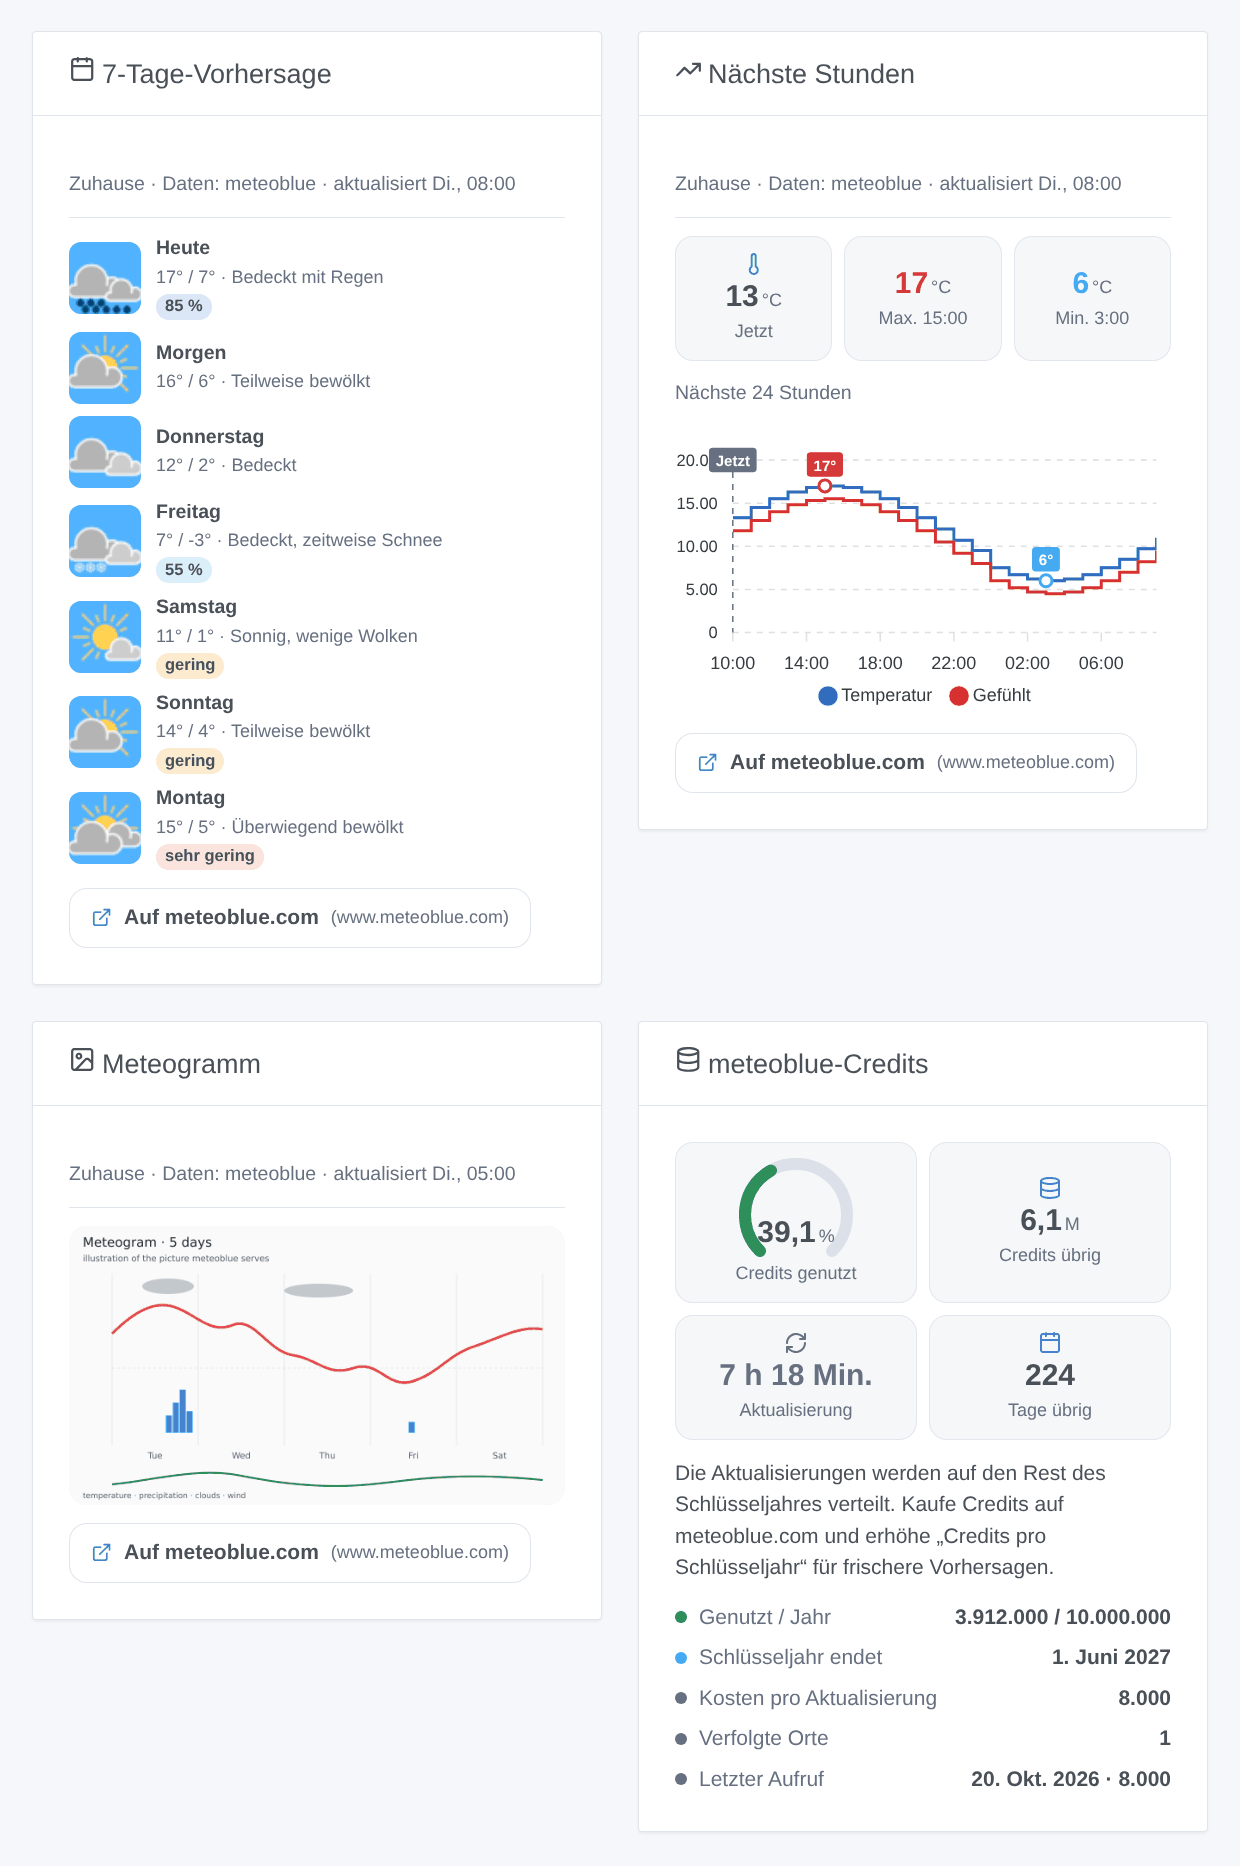
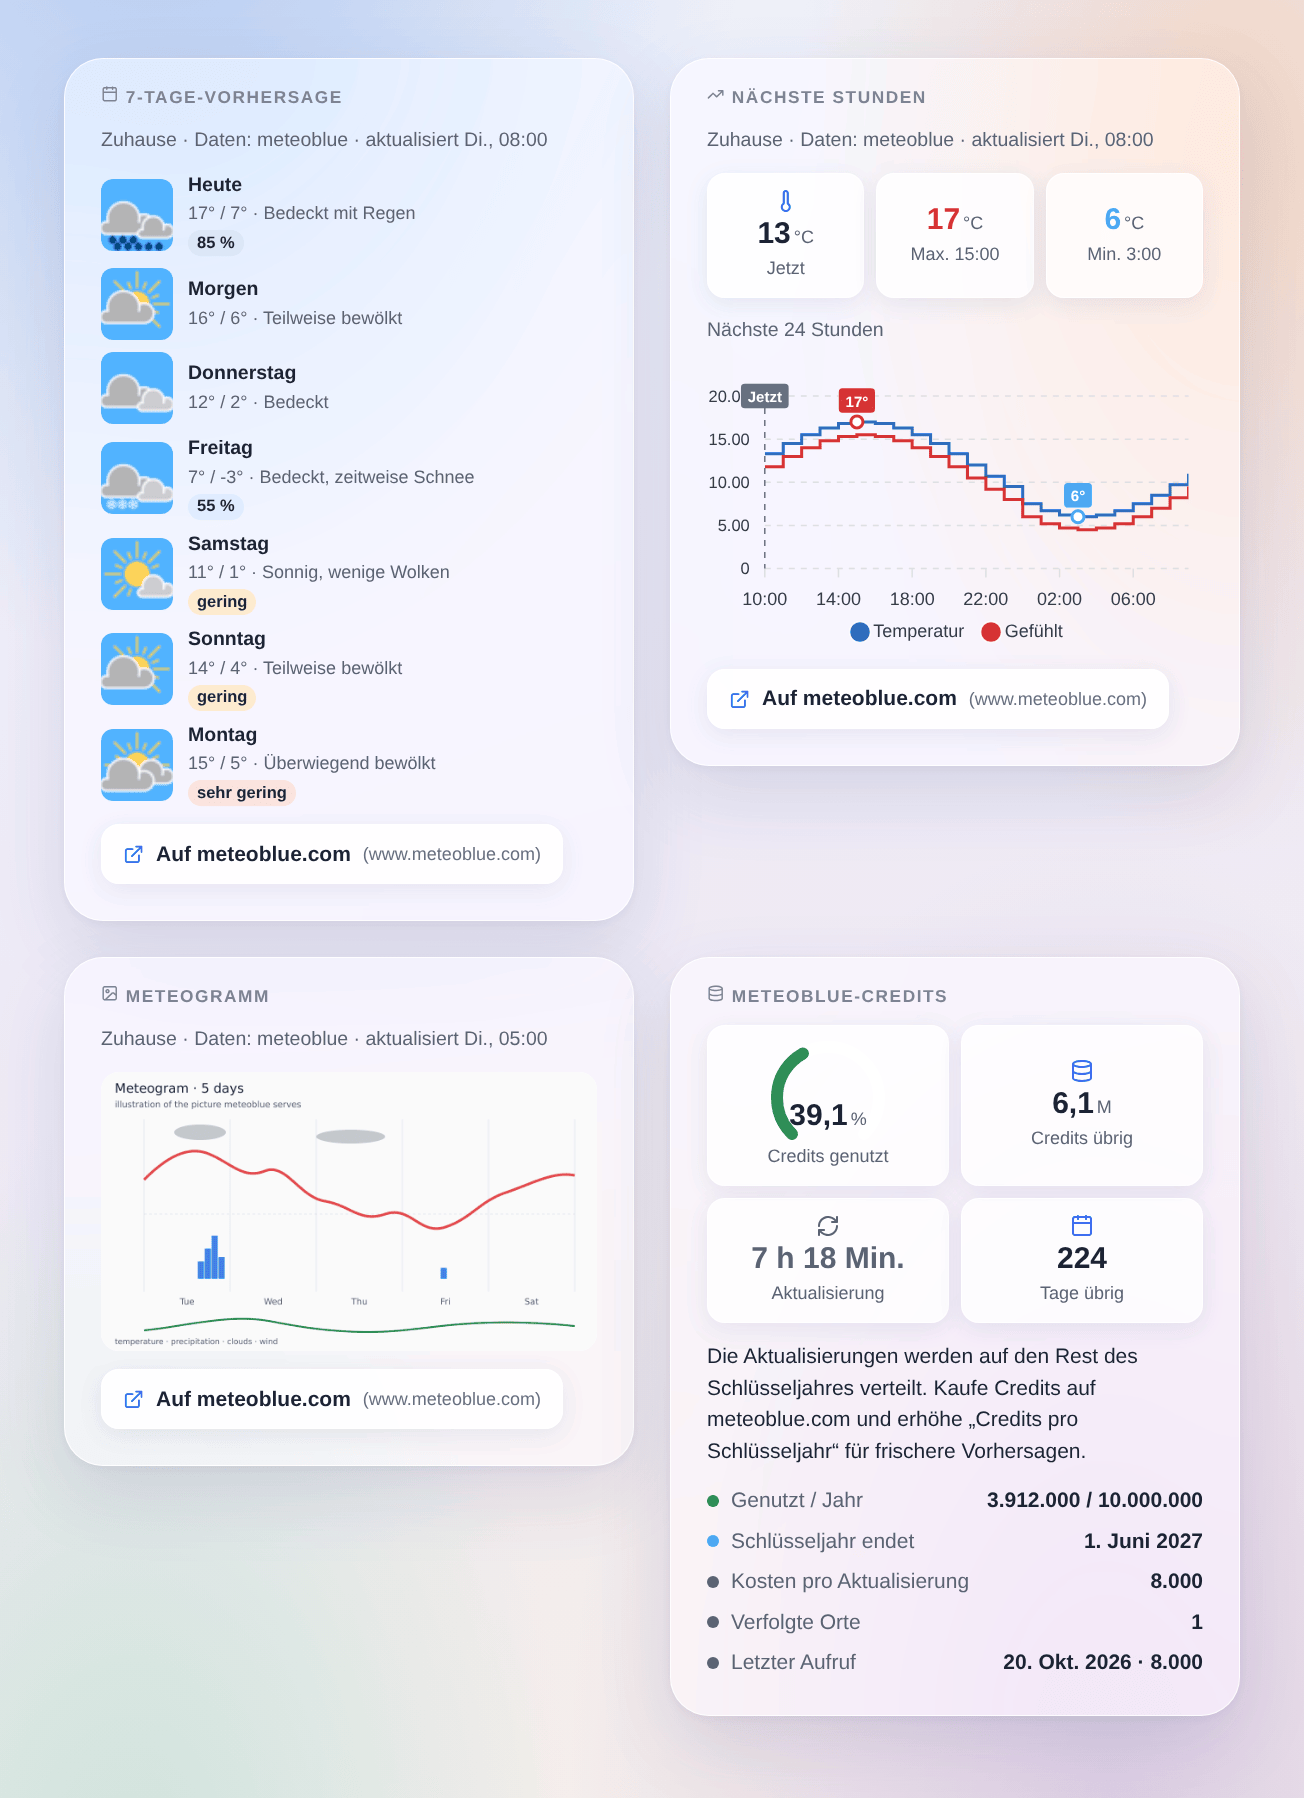
docs: widget illustrations in the Gladys 5 look (Horizon glass dashboard)
The illustrations used the Gladys v4 card look. render.sh now takes the styles of the current Gladys front, adds the Horizon dashboard theme (glass cards, uppercase title, default scene) and quantizes with libimagequant so the small colored dots survive the gradient.

diff --git a/docs/illustrations/index.html b/docs/illustrations/index.html
@@ -5,10 +5,25 @@
     <link rel="stylesheet" href="vendor/theme/package/dashboard.css" />
     <link rel="stylesheet" href="widget.css" />
     <link rel="stylesheet" href="dark-mode.css" />
+    <link rel="stylesheet" href="horizon.css" />
     <style>
       body {
-        background: #f5f7fb;
-        padding: 24px;
+        background: #fff;
+        margin: 0;
+        padding: 8px;
+      }
+      /* the page header of the theme shares the class name of the widget
+         header slot (a CSS module class in Gladys): keep it off the widget */
+      .card .header {
+        padding: 0;
+        background: none;
+        border-bottom: 0;
+      }
+      /* the dashboard scene, a margin around the cards for their shadow */
+      #stage {
+        display: inline-block;
+        overflow: hidden;
+        padding: 40px 44px 56px;
       }
       #row {
         display: grid;
@@ -29,7 +44,7 @@
     <script src="data.js"></script>
   </head>
   <body>
-    <div id="row"></div>
+    <div id="stage" class="glass-theme glassScene"><div id="row"></div></div>
     <script>
       if (new URLSearchParams(location.search).get('theme') === 'dark') {
         document.documentElement.classList.add('dark-mode');
